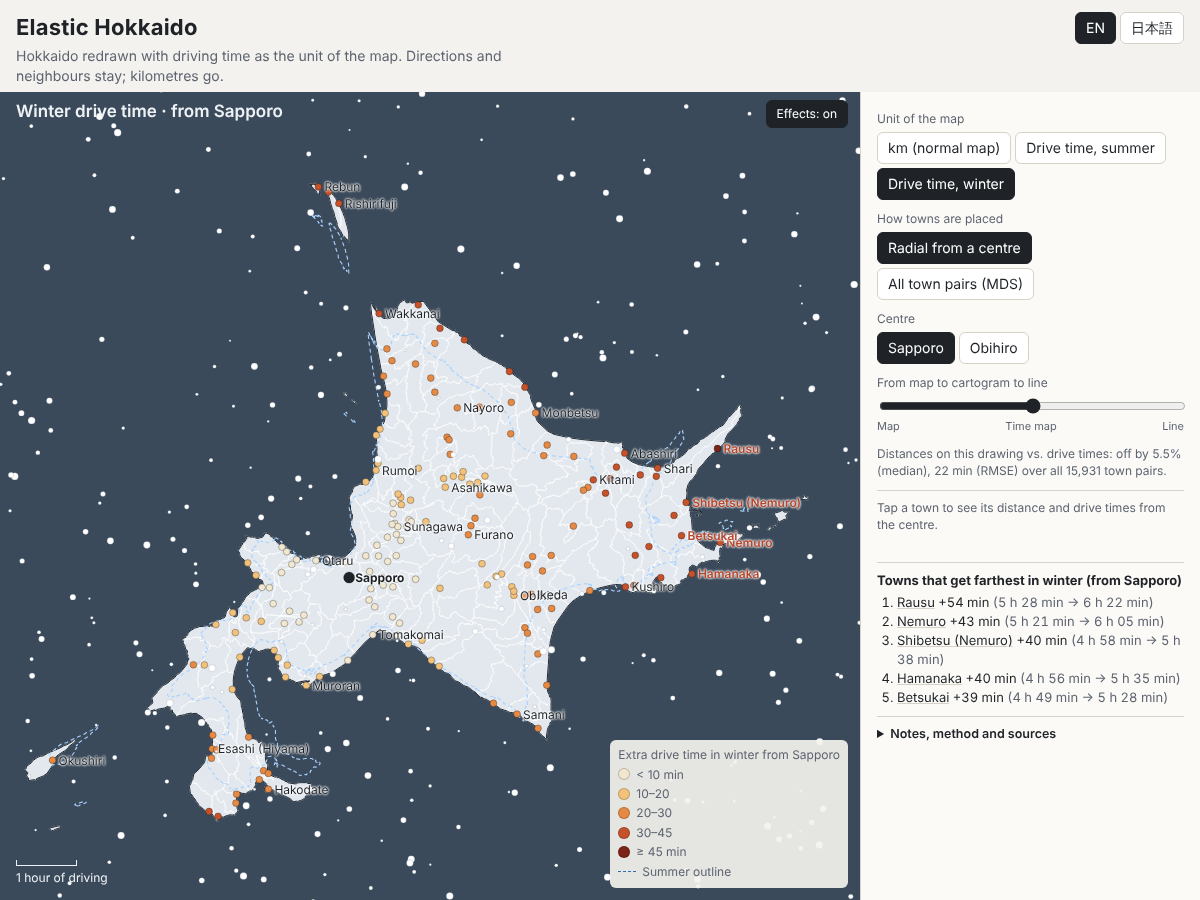
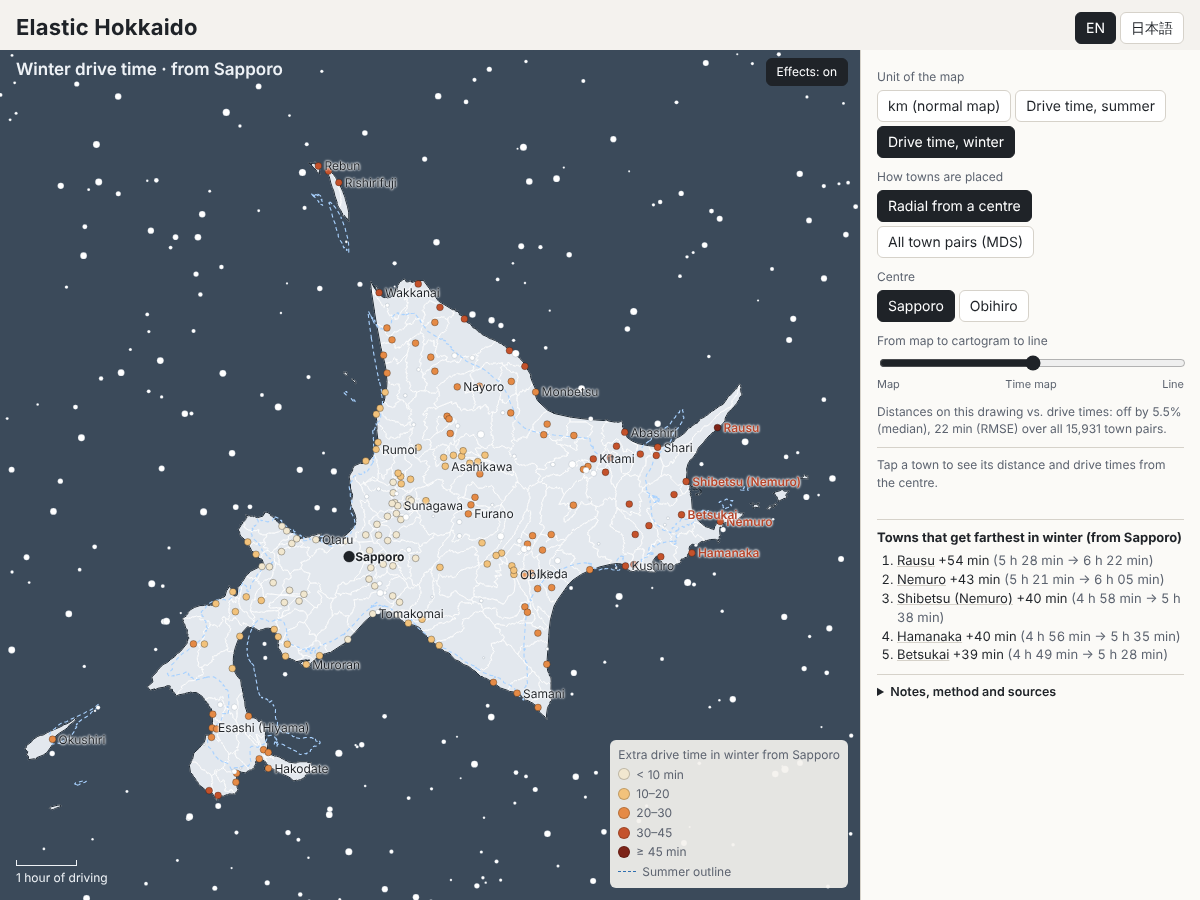
Remove the header subtitle

diff --git a/web/app.js b/web/app.js
@@ -3,7 +3,6 @@
 
   const T = {
     en: {
-      subtitle: "Hokkaido redrawn with driving time as the unit of the map. Directions and neighbours stay; kilometres go.",
       unit: "Unit of the map", unit_km: "km (normal map)", unit_summer: "Drive time, summer", unit_winter: "Drive time, winter",
       method: "How towns are placed", method_radial: "Radial from a centre", method_mds: "All town pairs (MDS)",
       center: "Centre", c_sapporo: "Sapporo", c_obihiro: "Obihiro",
@@ -24,7 +23,6 @@
       hm: m => { m = Math.round(m); return m >= 60 ? `${Math.floor(m / 60)} h ${String(m % 60).padStart(2, "0")} min` : `${m} min`; },
     },
     ja: {
-      subtitle: "地図の単位を km から車の移動時間に取り替えて、北海道を描き直しました。方角と隣り合う関係はそのままです。",
       unit: "地図の単位", unit_km: "km（普通の地図）", unit_summer: "車の時間・夏", unit_winter: "車の時間・冬",
       method: "町の置き方", method_radial: "中心型（中心からの時間）", method_mds: "全点型（全ての町の組・MDS）",
       center: "中心", c_sapporo: "札幌", c_obihiro: "帯広",

diff --git a/web/index.html b/web/index.html
@@ -14,7 +14,6 @@
 <header class="top">
   <div class="title">
     <h1>Elastic Hokkaido</h1>
-    <p class="sub" data-i18n="subtitle"></p>
   </div>
   <div class="lang" role="group" aria-label="Language">
     <button type="button" data-lang="en" aria-pressed="true">EN</button>
